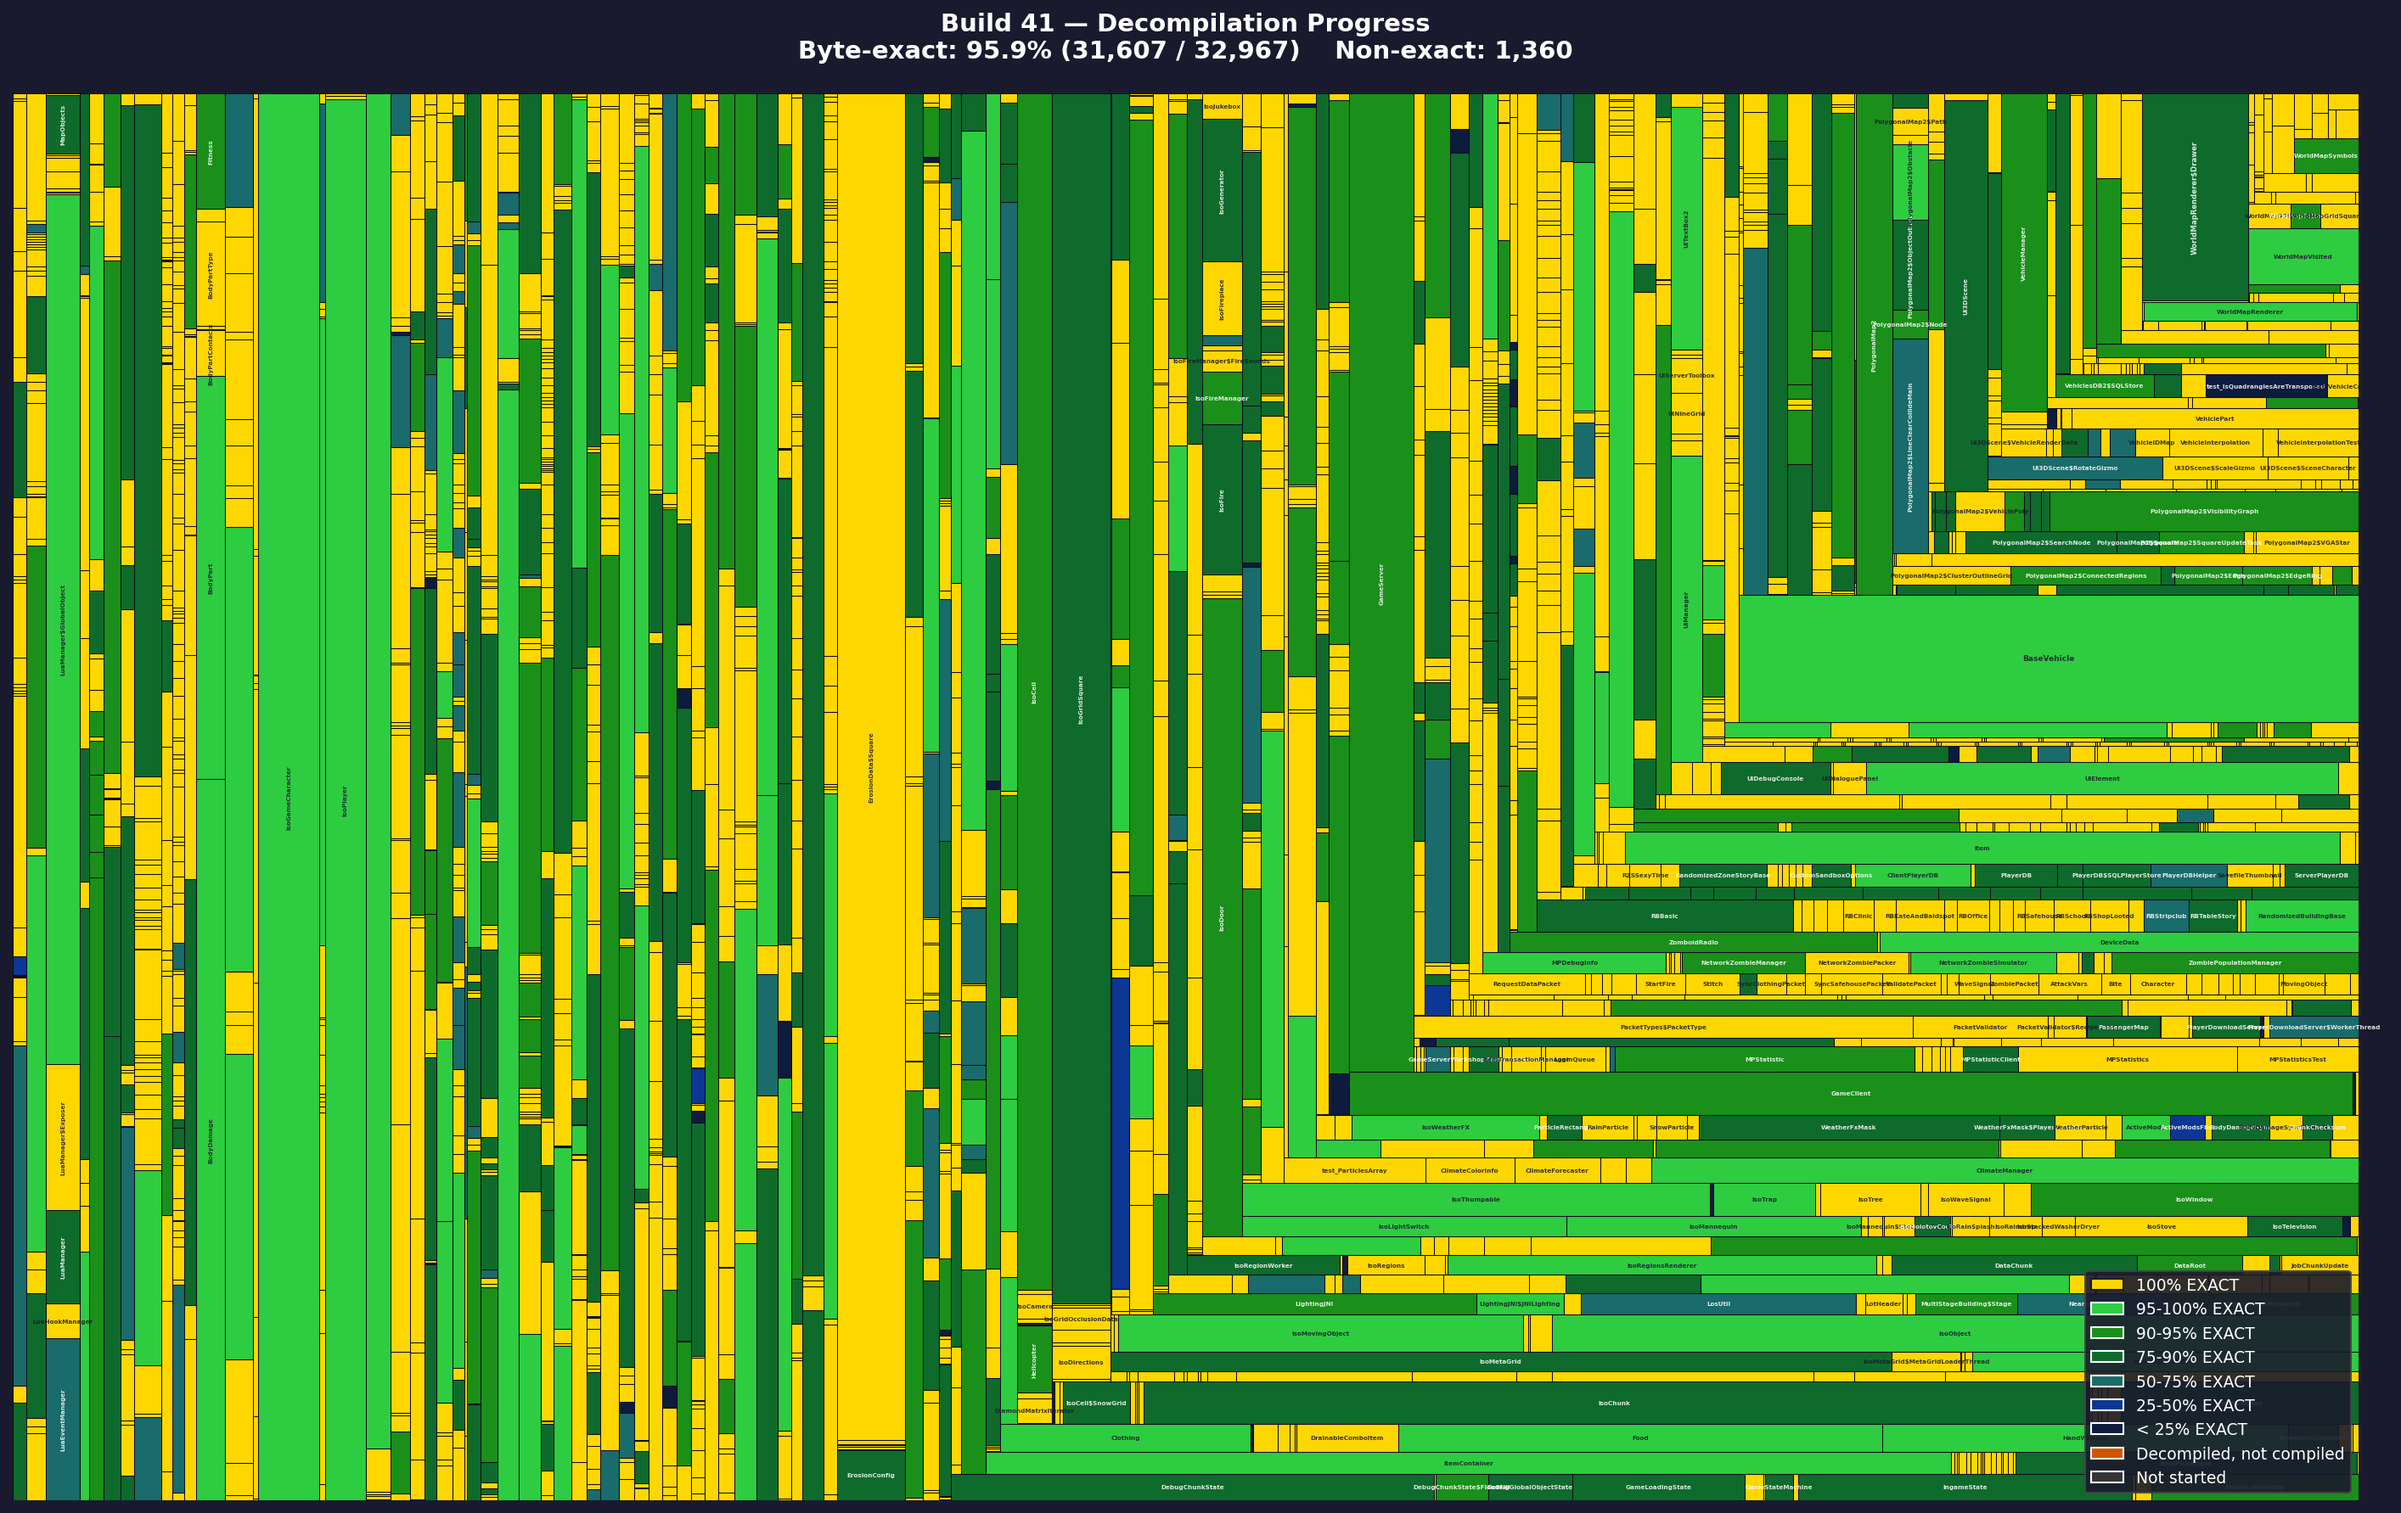
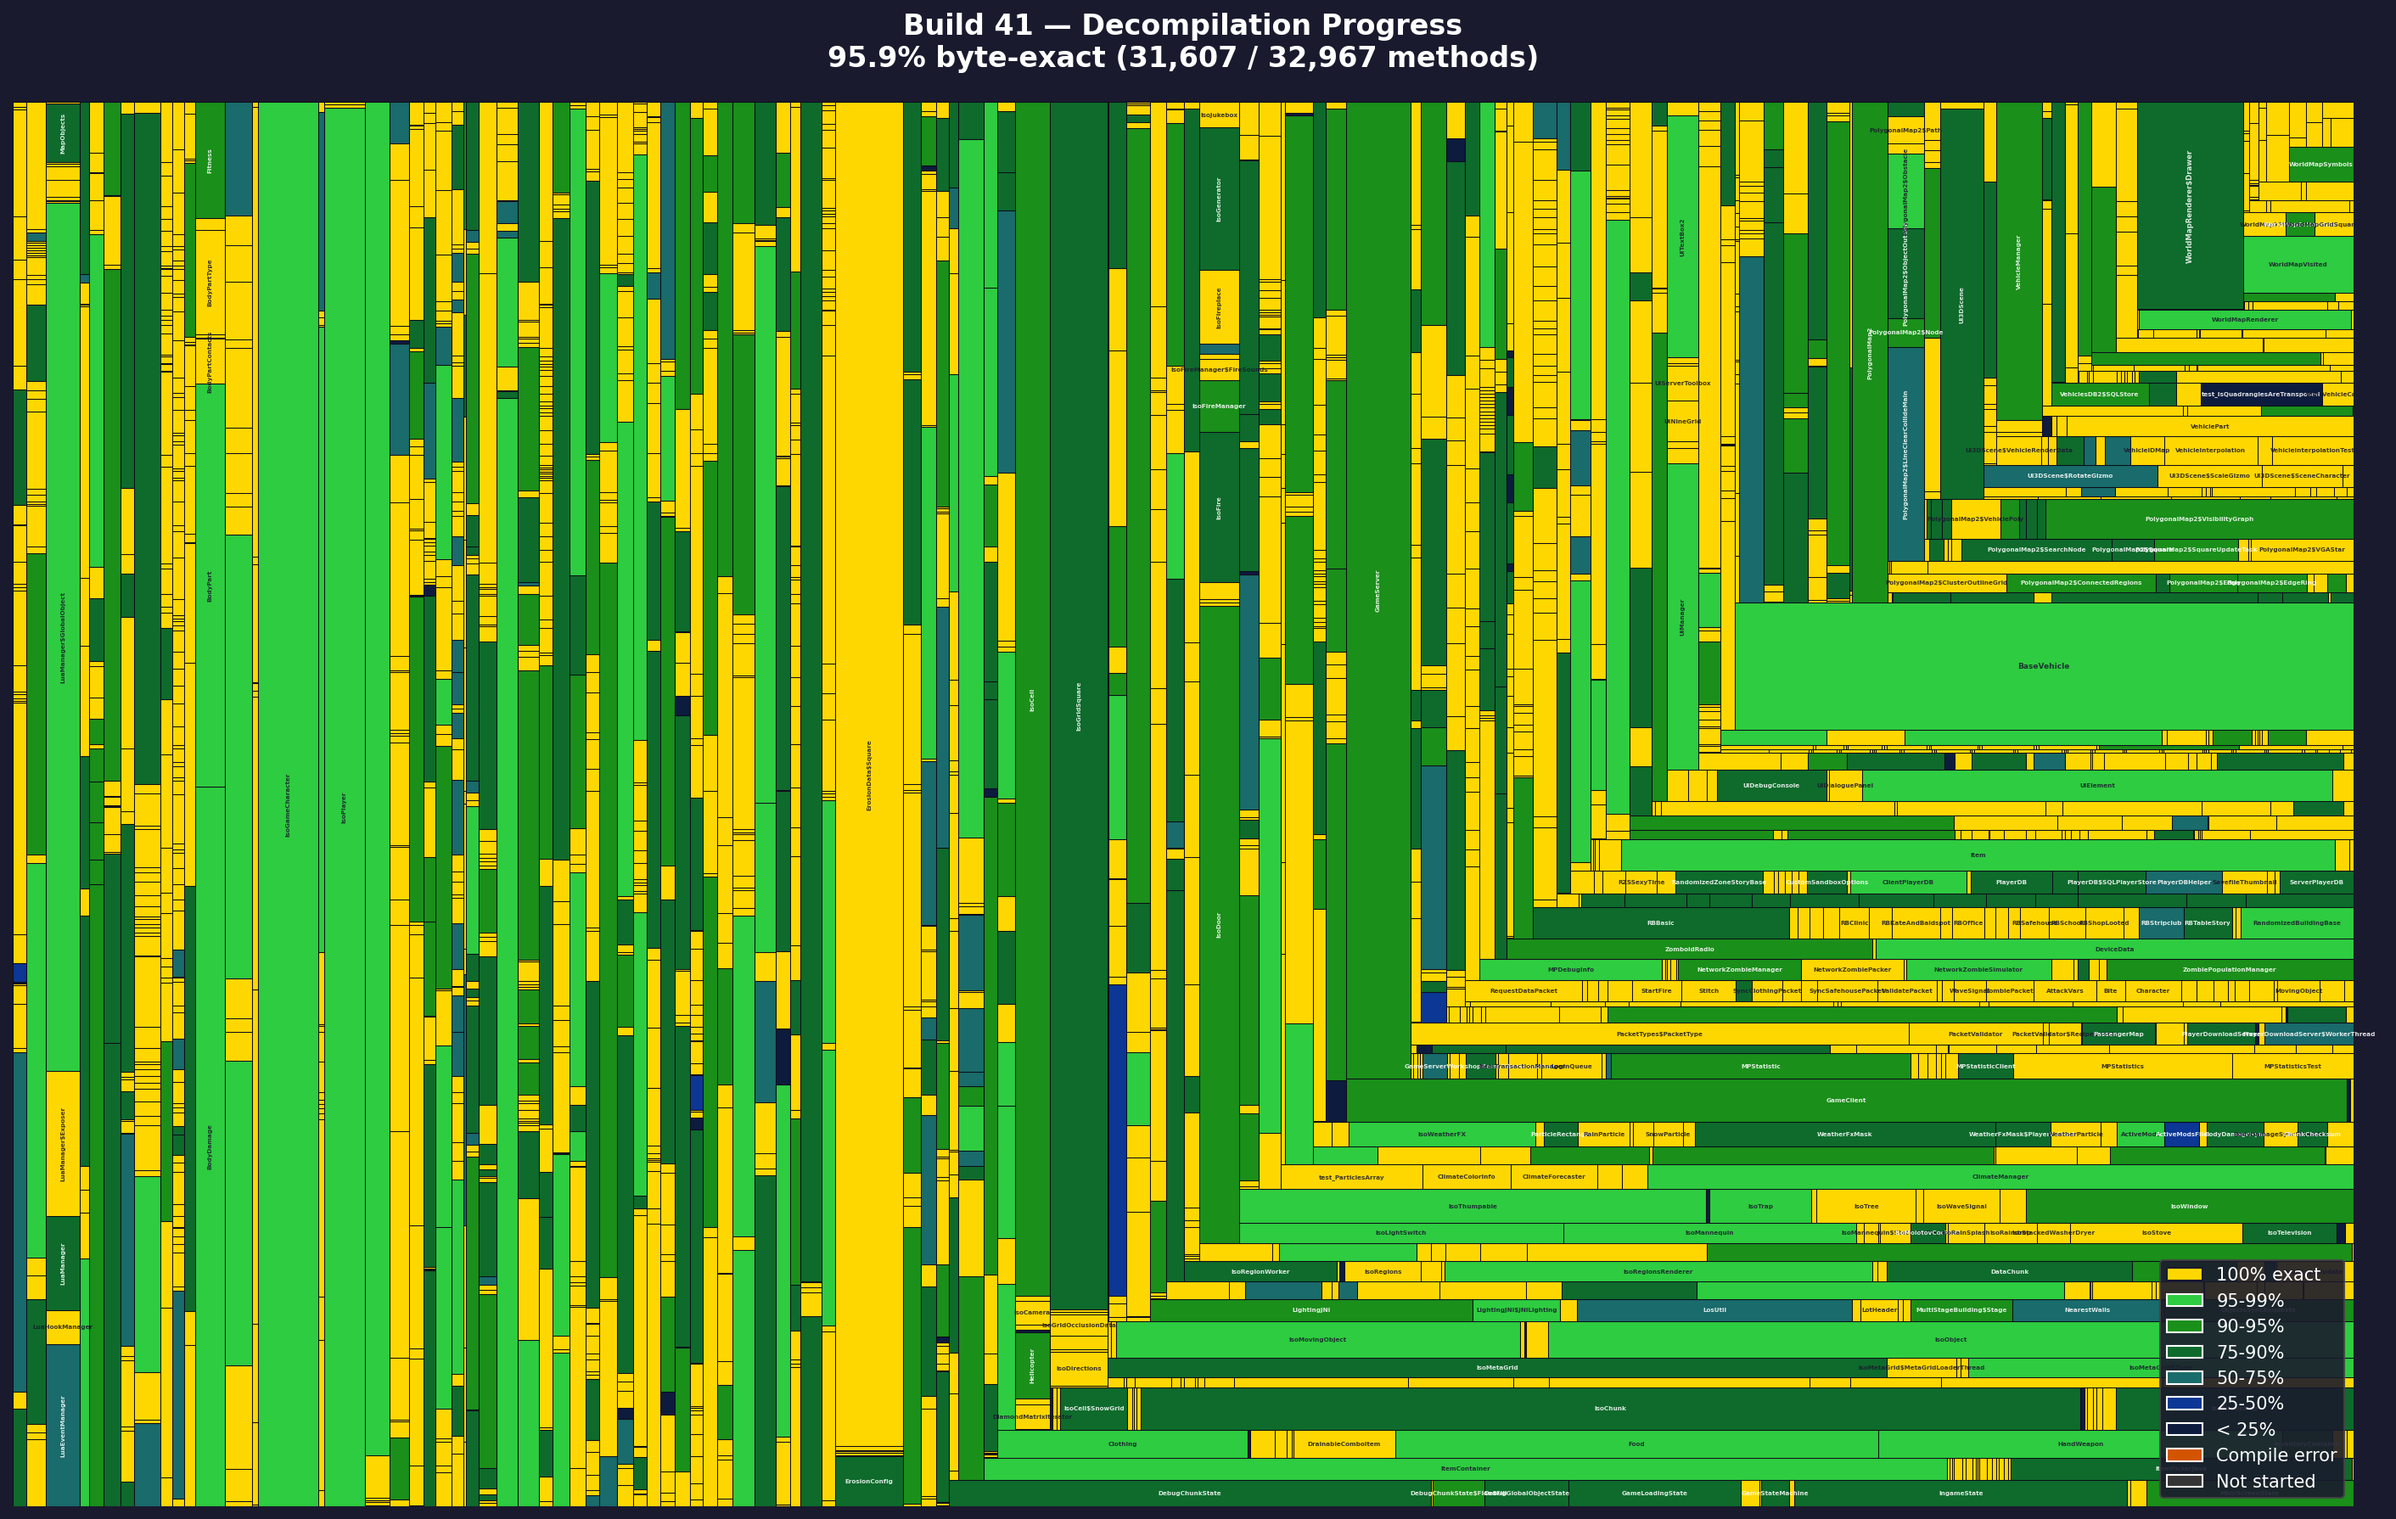
refactor: simplify progress image - clear title, clean legend

diff --git a/scripts/generate_progress_image.py b/scripts/generate_progress_image.py
@@ -1,5 +1,5 @@
 #!/usr/bin/env python3
-"""Generate a treemap progress image showing EXACT method percentage per class."""
+"""Generate a treemap progress image showing bytecode match quality per class."""
 
 import json
 import sys
@@ -15,35 +15,30 @@ import squarify
 # Color by percentage of methods that are EXACT matches
 COLOR_TIERS = [
     # (min_pct, color,     label)
-    (100,      "#FFD700",  "100% EXACT"),        # gold
-    (95,       "#2ecc40",  "95-100% EXACT"),      # bright green
-    (90,       "#1a8f1a",  "90-95% EXACT"),       # medium green
-    (75,       "#0e6b2c",  "75-90% EXACT"),       # dark green
-    (50,       "#1a6b6b",  "50-75% EXACT"),       # teal
-    (25,       "#0c3795",  "25-50% EXACT"),       # dark blue
-    (0,        "#0d1b3e",  "< 25% EXACT"),        # deep navy
-    (-1,       "#353535",  "Not started"),         # gray
+    (100,      "#FFD700",  "100% exact"),
+    (95,       "#2ecc40",  "95-99%"),
+    (90,       "#1a8f1a",  "90-95%"),
+    (75,       "#0e6b2c",  "75-90%"),
+    (50,       "#1a6b6b",  "50-75%"),
+    (25,       "#0c3795",  "25-50%"),
+    (0,        "#0d1b3e",  "< 25%"),
+    (-1,       "#353535",  "Not started"),
 ]
 
-COLOR_NOT_COMPILED = "#D35400"  # burnt orange
+COLOR_NOT_COMPILED = "#D35400"
 
 
 def get_exact_pct(unit):
-    """Calculate what percentage of a class's methods are EXACT matches."""
     total = unit.get("total_methods", 0)
     if total == 0:
         return 0
-    # The methods array only contains NON-EXACT methods.
-    # EXACT count = total - len(methods array)
     non_exact = len(unit.get("methods", []))
     exact = total - non_exact
     return 100.0 * exact / total
 
 
 def get_color(unit, source_dir=None):
-    """Color based on EXACT method percentage."""
     status = unit.get("status", "")
-
     if status == "MISSING_RECOMP":
         if source_dir:
             name = unit.get("name", "")
@@ -52,9 +47,7 @@ def get_color(unit, source_dir=None):
             if not source_file.exists():
                 return "#353535"
         return COLOR_NOT_COMPILED
-
     pct = get_exact_pct(unit)
-
     for min_pct, color, _ in COLOR_TIERS:
         if pct >= min_pct:
             return color
@@ -74,10 +67,9 @@ def main():
     with open(report_path) as f:
         report = json.load(f)
 
-    measures = report["measures"]
     units = report["units"]
 
-    # Calculate global tier counts
+    # Calculate global stats
     total_methods = 0
     exact_methods = 0
     tier_counts = {}
@@ -90,7 +82,10 @@ def main():
             tier = m.get("matchTier", "NONE")
             tier_counts[tier] = tier_counts.get(tier, 0) + 1
 
-    # Prepare data for treemap
+    none_count = tier_counts.get("NONE", 0)
+    exact_pct = 100.0 * exact_methods / total_methods if total_methods > 0 else 0
+
+    # Prepare treemap data
     sizes = []
     labels = []
     colors = []
@@ -124,16 +119,12 @@ def main():
             edgecolor="#0d0d1a",
             linewidth=0.5,
         ))
-        # Pick orientation based on rectangle aspect ratio
-        # Tall/narrow rectangles get vertical text, wide ones get horizontal
         if dx >= 1.2 and dy >= 0.8:
             text_color = "#1a1a2e" if color in ("#FFD700", "#2ecc40") else "white"
             if dy > dx * 1.5:
-                # Tall rectangle - vertical text fits better
                 fontsize = min(8, max(3.5, dx * 0.9))
                 rotation = 90
             else:
-                # Wide or square rectangle - horizontal text
                 fontsize = min(8, max(3.5, min(dx, dy) * 0.8))
                 rotation = 0
             ax.text(
@@ -152,40 +143,16 @@ def main():
     ax.set_aspect("equal")
     ax.axis("off")
 
-    # Title: clean summary
+    # Title
     header = custom_title or "Decompilation Progress"
-    exact_pct = 100.0 * exact_methods / total_methods if total_methods > 0 else 0
-    none_count = tier_counts.get("NONE", 0)
-    non_exact = total_methods - exact_methods
-
-    # Try to load semantic report for the second line
-    semantic_path = report_path.replace(".json", "_semantic.json")
-    semantic_exact = None
-    try:
-        from pathlib import Path
-        if Path(semantic_path).exists():
-            with open(semantic_path) as sf:
-                sem_data = json.load(sf)
-            sem_total = sem_data["measures"]["total_methods"]
-            sem_tiers = {}
-            for u in sem_data["units"]:
-                for m in u.get("methods", []):
-                    t = m.get("matchTier", "EXACT")
-                    sem_tiers[t] = sem_tiers.get(t, 0) + 1
-            semantic_exact = sem_total - sum(sem_tiers.values())
-    except Exception:
-        pass
-
-    non_exact = total_methods - exact_methods
-
-    line2 = f"Byte-exact: {exact_pct:.1f}% ({exact_methods:,} / {total_methods:,})"
-    if non_exact > 0:
-        line2 += f"    Non-exact: {non_exact:,}"
+    subtitle = f"{exact_pct:.1f}% byte-exact ({exact_methods:,} / {total_methods:,} methods)"
     if none_count > 0:
-        line2 += f"    Unmatched: {none_count:,}"
+        subtitle += f"  |  {none_count:,} unmatched"
 
-    title = f"{header}\n{line2}"
-    ax.set_title(title, color="white", fontsize=14, fontweight="bold", pad=20)
+    ax.set_title(
+        f"{header}\n{subtitle}",
+        color="white", fontsize=16, fontweight="bold", pad=20
+    )
 
     # Legend
     legend_items = []
@@ -194,12 +161,12 @@ def main():
         legend_items.append(mpatches.Patch(facecolor=color, edgecolor=ec, label=label))
     legend_items.insert(-1, mpatches.Patch(
         facecolor=COLOR_NOT_COMPILED, edgecolor="white",
-        label="Decompiled, not compiled"))
+        label="Compile error"))
 
     ax.legend(
         handles=legend_items,
         loc="lower right",
-        fontsize=9,
+        fontsize=10,
         facecolor="#1a1a2e",
         edgecolor="#444",
         labelcolor="white",
